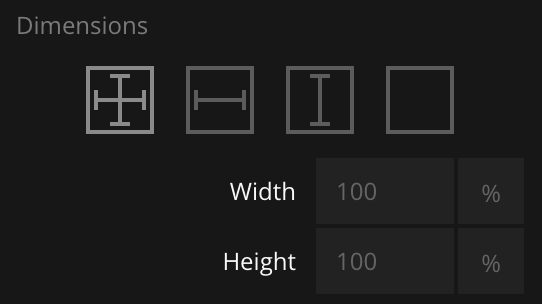
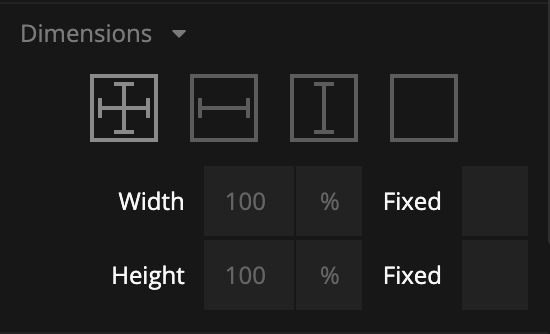
Added docs for layout updates in 2.3

diff --git a/2.3/nodes/visual/group.md b/2.3/nodes/visual/group.md
@@ -8,15 +8,11 @@ This node represents a group that can have other visual nodes as children. **Gro
 
 Using the margin and padding gadget you can specify the top, bottom, left and right margins and padding for this node. You can specify them in either pixels or percentage of the corrensponding parent's dimension. Margins are the distance between this node and its siblings. Padding is the distance from the borders of this node to its children.
 
-<div class="ndl-images">
-    <img src="/nodes/visual/margin-and-padding.png" class="ndl-image small"></img>  
-</div>
+![](margin-and-padding.png ':class=img-size-s')
 
 ### Alignment
 
-<div class="ndl-images">
-    <img src="/nodes/visual/align-props.png" class="ndl-image small"></img>  
-</div>
+![](align-props.png ':class=img-size-s')
 
 Use the alignment gadget to specify how this node is aligned to its parent. Important to note is that the horizontal alignment options won't have any effect if the parent's layout is set to _Horizontal_, and similarly the vertical alignments have no effect if the parent's layout is set to _Vertical_.
 
@@ -34,9 +30,7 @@ From left to right, the alignment options are:
 **Size Mode**  
 Controls how the width and height of a **Group** is specified.
 
-<div class="ndl-images">
-    <img src="/nodes/visual/dims-1.png" class="ndl-image small"></img>  
-</div>
+![](dims-1.png ':class=img-size-s')
 
 - _Explicit width and height_ - Set the width and height directly in pixels or percentage. Percentage is in relation to the parent, so 100% is the same size as the parent.
 - _Explicit height, Content Width_ - The node will calculate the width to fit all of its children. The height is explicitly set.
@@ -49,7 +43,19 @@ Specify the width of this node in pixels, percentage of parent's width or the un
 **Height**  
 Specify the height of this node in pixels, percentage of parent's height or the unit _vh_ which is percentage of the browser window height.
 
+**Fixed**  
+Controls if an element will try to resize and share space with siblings without going outside of the bounds of the parent.
+
+- _Enabled_: Elements will be the exact size set
+- _Disabled_: Element will resize to fill up empty space, or shrink to make space for siblings. Use the dimension constraints, min and max size, to control the boundaries
+
 ### Layout
+**Position**  
+Controls how this node is positioned in relation to siblings and if it affects the size of its parent.
+
+- _In Layout_ - This node is part of the parent node's layout. It will be stacked with its siblings depending on the parent node's layout settings.
+- _Absolute_ - This node will not be part of the parent node's layout, instead you are free to use the _Pos X_ and _Pos Y_ to place this node explicitly.
+- _Sticky_ - Behaves like _In Layout_, except when the node is about the be scrolled outside the parent. It'll stick to an edge of the parent istead of scrolling away. What edge can be controlled with the **Alignment** input.
 
 **Layout**  
 By default children are stacked and this property specifies which direction they should be stacked.
@@ -64,6 +70,30 @@ This property specifies what happens with children that are stacked outside of t
 - _Off_ - Children are stacked beyond the boundaries of the node. If _Clip_ is enabled they will not be visible.
 - _On_ - Children are wrapped to the next row or column (depending on layout direction).
 - _On Reverse_ - Same as _On_ but opposite layout direction.
+
+**Clip content**  
+Controls if elements that are too big to fit inside the parent will be clipped.
+
+If disabled, a group will always expand to contain all of its children. So if the children are taller than the size of the group, the group will expand and be larger than its specified size.
+
+**Align and justify content**  
+
+![](group-align-and-justify.png ':class=img-size-m')
+Control how children are aligned and justified by default. Children can override these settings with their **Alignement** input.
+
+The following values control cross-axis alignment, meaning vertical alignment for horizontal layouts, and horizontal alignment for vertical layouts.
+- _Align items start_: Children are stacked at the start of the parent.
+- _Align items center_: Children are stacked at the center of the parent.
+- _Align items end_: Children are stacked at the end of the parent.
+
+The following values control alignment in the same direction as the layout.
+- _Justify content start_: Children are stacked at the start of the parent.
+- _Justify content center_: Children are stacked at the center of the parent.
+- _Justify content end_: Children are stacked at the end of the parent.
+- _Justify content space between_: Children are evenly distributed. No space is added between the parent and the first and last child.
+- _Justify content space around_: Children are evenly distributed. Space is added between the parent and the first and last child.
+- _Justify content space evenly_: Children are evenly distributed with equal space between them.
+
 
 ### Scroll
 
@@ -86,9 +116,6 @@ Only available if _Native Platform Scroll_ is disabled. Toggles if scrolling bou
 When enabled, uses the web's native scrolling dependent on the platform. Uses custom Noodl scrolling when disabled. The custom Noodl scrolling is platform independent and has both touch and mouse support.
 
 ### Style
-
-**Clip**  
-Specifies whether this node should clip any part of its children that are outside of its borders.
 
 **Opacity**  
 The opacity of this node. 0 is completely transparent and invisible. 1 is completely solid and opaque.
@@ -172,12 +199,6 @@ Specifes the Y position, within this node, that will be the center for rotation 
 Focuses this group. Will trigger the _Focused_ output on this group, as well as _Focused Lost_ on other groups that now lost focus.
 
 ### Other
-
-**Position**  
-Controls how this node is layouted in its parent node.
-
-- _In Layout_ - This node is part of the parent node's layout. It will be stacked with its siblings depending on the parent node's layout settings.
-- _Absolute_ - This node will not be part of the parent node's layout, instead you are free to use the _Pos X_ and _Pos Y_ to place this node explicitly.
 
 **Pointer Events Mode**  
 This specifies how this node responds to pointer events.

diff --git a/2.3/nodes/navigation/navigation-stack.md b/2.3/nodes/navigation/navigation-stack.md
@@ -56,6 +56,12 @@ If enabled the stack will change the URL when navigation is performed, and if th
 **Start Page**  
 The page that is shown when the stack is created and no navigation has been performed.
 
+### Layout
+**Clip content**  
+Controls if the Navigation Stack size should expand to fit all of it's children. This is useful when placing things like footers after a navigation stack.
+
+If content inside the Navigation Stack should be able to scroll, Clip content should be enabled so the Navigation Stack doesn't grow with it's content since, not allowing the Pages inside to get a scroll bar.
+
 ### Pages
 Create and manage pages as shown above.
 
